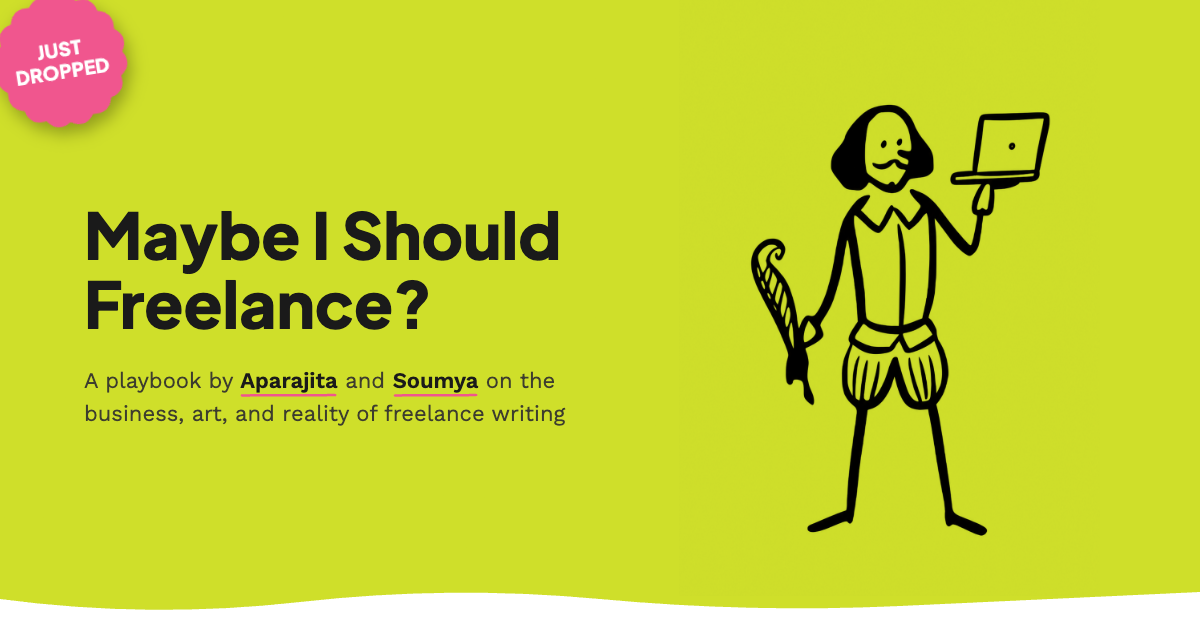
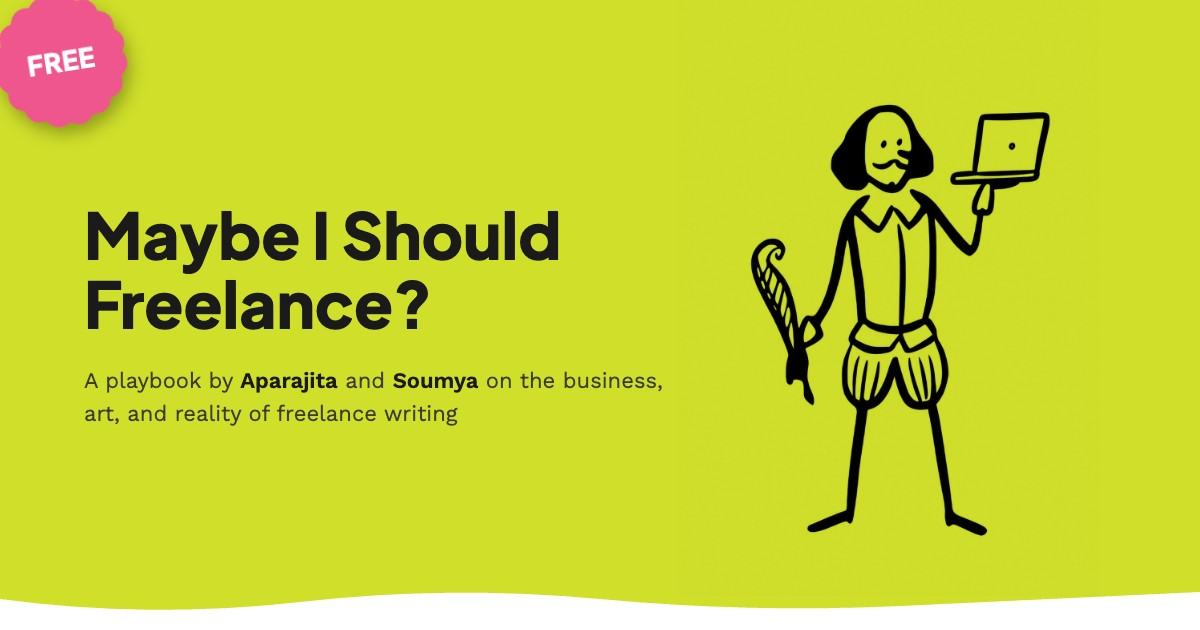
Add files via upload

diff --git a/index.html b/index.html
@@ -6,24 +6,25 @@
 <meta charset="utf-8"/>
 <meta content="width=device-width, initial-scale=1" name="viewport"/>
 <title>Maybe I Should Freelance? — A free playbook by Aparajita &amp; Soumya</title>
-<meta content="A free playbook by Aparajita and Soumya on the business, art, and reality of freelance writing" name="description"/>
+<meta content="A free playbook by Aparajita and Soumya on the business, art, and reality of building a freelance writing career" name="description"/>
 <meta content="index, follow, max-image-preview:large, max-snippet:-1" name="robots"/>
 <meta content="Aparajita Khandelwal, Soumya John" name="author"/>
 <link href="https://freelancewriterplaybook.in/" rel="canonical"/>
 <meta content="Maybe I Should Freelance?" property="og:title"/>
-<meta content="A free playbook by Aparajita and Soumya on the business, art, and reality of freelance writing" property="og:description"/>
+<meta content="A free playbook by Aparajita and Soumya on the business, art, and reality of building a freelance writing career" property="og:description"/>
 <meta content="Maybe I Should Freelance?" property="og:site_name"/>
 <meta content="en_IN" property="og:locale"/>
 <meta content="website" property="og:type"/>
-<meta content="https://freelancewriterplaybook.in/og-cover.png" property="og:image"/>
+<meta content="https://freelancewriterplaybook.in/og-cover.jpg" property="og:image"/>
 <meta content="1200" property="og:image:width"/>
+<meta content="image/jpeg" property="og:image:type"/>
 <meta content="630" property="og:image:height"/>
 <meta content="Cover of the free playbook Maybe I Should Freelance? on a lime background, with an illustration of a writer holding a laptop and a quill." property="og:image:alt"/>
 <meta content="https://freelancewriterplaybook.in/" property="og:url"/>
 <meta content="summary_large_image" name="twitter:card"/>
 <meta content="Maybe I Should Freelance?" name="twitter:title"/>
-<meta content="A free playbook by Aparajita and Soumya on the business, art, and reality of freelance writing" name="twitter:description"/>
-<meta content="https://freelancewriterplaybook.in/og-cover.png" name="twitter:image"/>
+<meta content="A free playbook by Aparajita and Soumya on the business, art, and reality of building a freelance writing career" name="twitter:description"/>
+<meta content="https://freelancewriterplaybook.in/og-cover.jpg" name="twitter:image"/>
 <meta content="Cover of the free playbook Maybe I Should Freelance? on a lime background, with an illustration of a writer holding a laptop and a quill." name="twitter:image:alt"/>
 <meta content="#CFDF2A" name="theme-color"/>
 <script type="application/ld+json">
@@ -35,7 +36,7 @@
       "@id": "https://freelancewriterplaybook.in/#website",
       "url": "https://freelancewriterplaybook.in/",
       "name": "Maybe I Should Freelance?",
-      "description": "A free playbook by Aparajita and Soumya on the business, art, and reality of freelance writing",
+      "description": "A free playbook by Aparajita and Soumya on the business, art, and reality of building a freelance writing career",
       "inLanguage": "en",
       "publisher": {
         "@id": "https://freelancewriterplaybook.in/#book"
@@ -46,7 +47,7 @@
       "@id": "https://freelancewriterplaybook.in/#webpage",
       "url": "https://freelancewriterplaybook.in/",
       "name": "Maybe I Should Freelance? — A free playbook by Aparajita & Soumya",
-      "description": "A free playbook by Aparajita and Soumya on the business, art, and reality of freelance writing",
+      "description": "A free playbook by Aparajita and Soumya on the business, art, and reality of building a freelance writing career",
       "isPartOf": {
         "@id": "https://freelancewriterplaybook.in/#website"
       },
@@ -61,7 +62,7 @@
     {
       "@type": "ImageObject",
       "@id": "https://freelancewriterplaybook.in/#cover",
-      "url": "https://freelancewriterplaybook.in/og-cover.png",
+      "url": "https://freelancewriterplaybook.in/og-cover.jpg",
       "width": 1200,
       "height": 630,
       "caption": "Cover of the free playbook Maybe I Should Freelance?"
@@ -72,8 +73,8 @@
       "name": "Maybe I Should Freelance?",
       "alternateName": "Maybe I Should Freelance? The A-Z of Building a Sustainable Freelance Writing Career",
       "url": "https://freelancewriterplaybook.in/",
-      "image": "https://freelancewriterplaybook.in/og-cover.png",
-      "description": "A free playbook by Aparajita and Soumya on the business, art, and reality of freelance writing",
+      "image": "https://freelancewriterplaybook.in/og-cover.jpg",
+      "description": "A free playbook by Aparajita and Soumya on the business, art, and reality of building a freelance writing career",
       "bookFormat": "https://schema.org/EBook",
       "inLanguage": "en",
       "author": [
